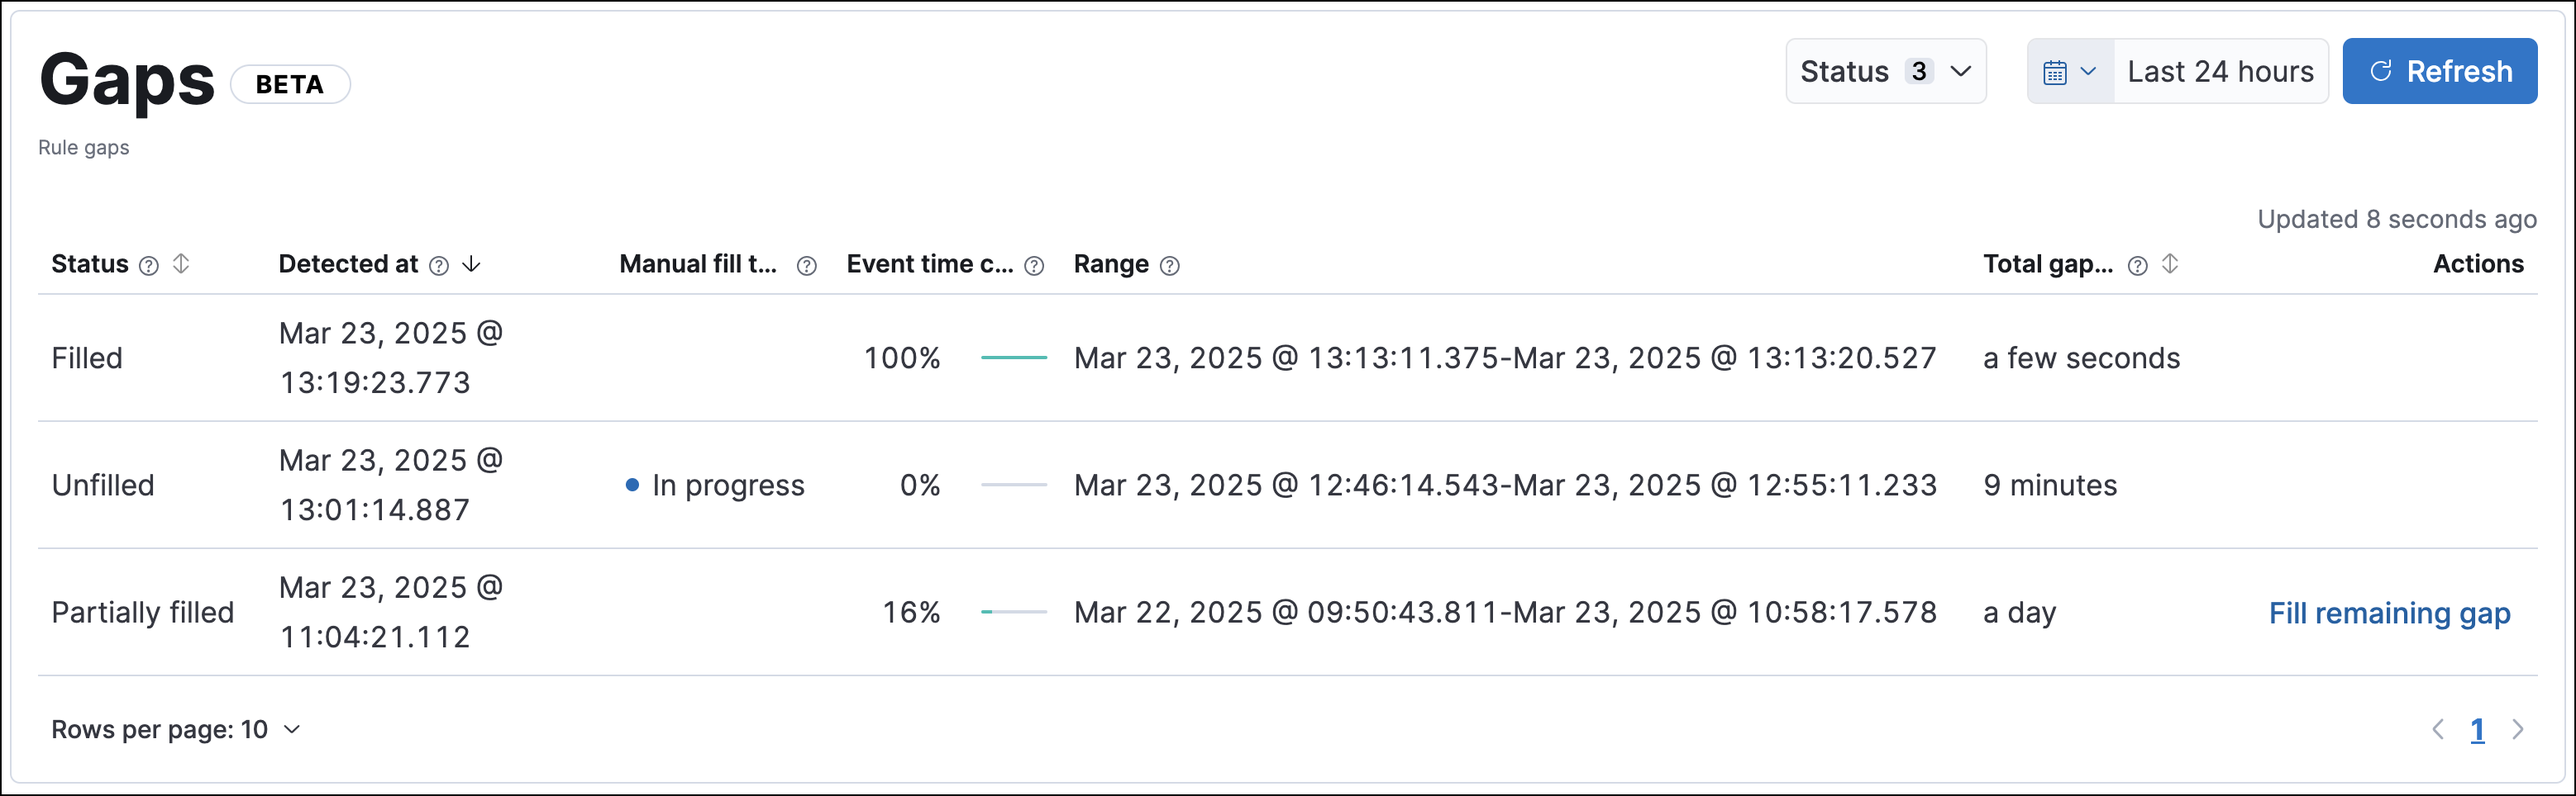
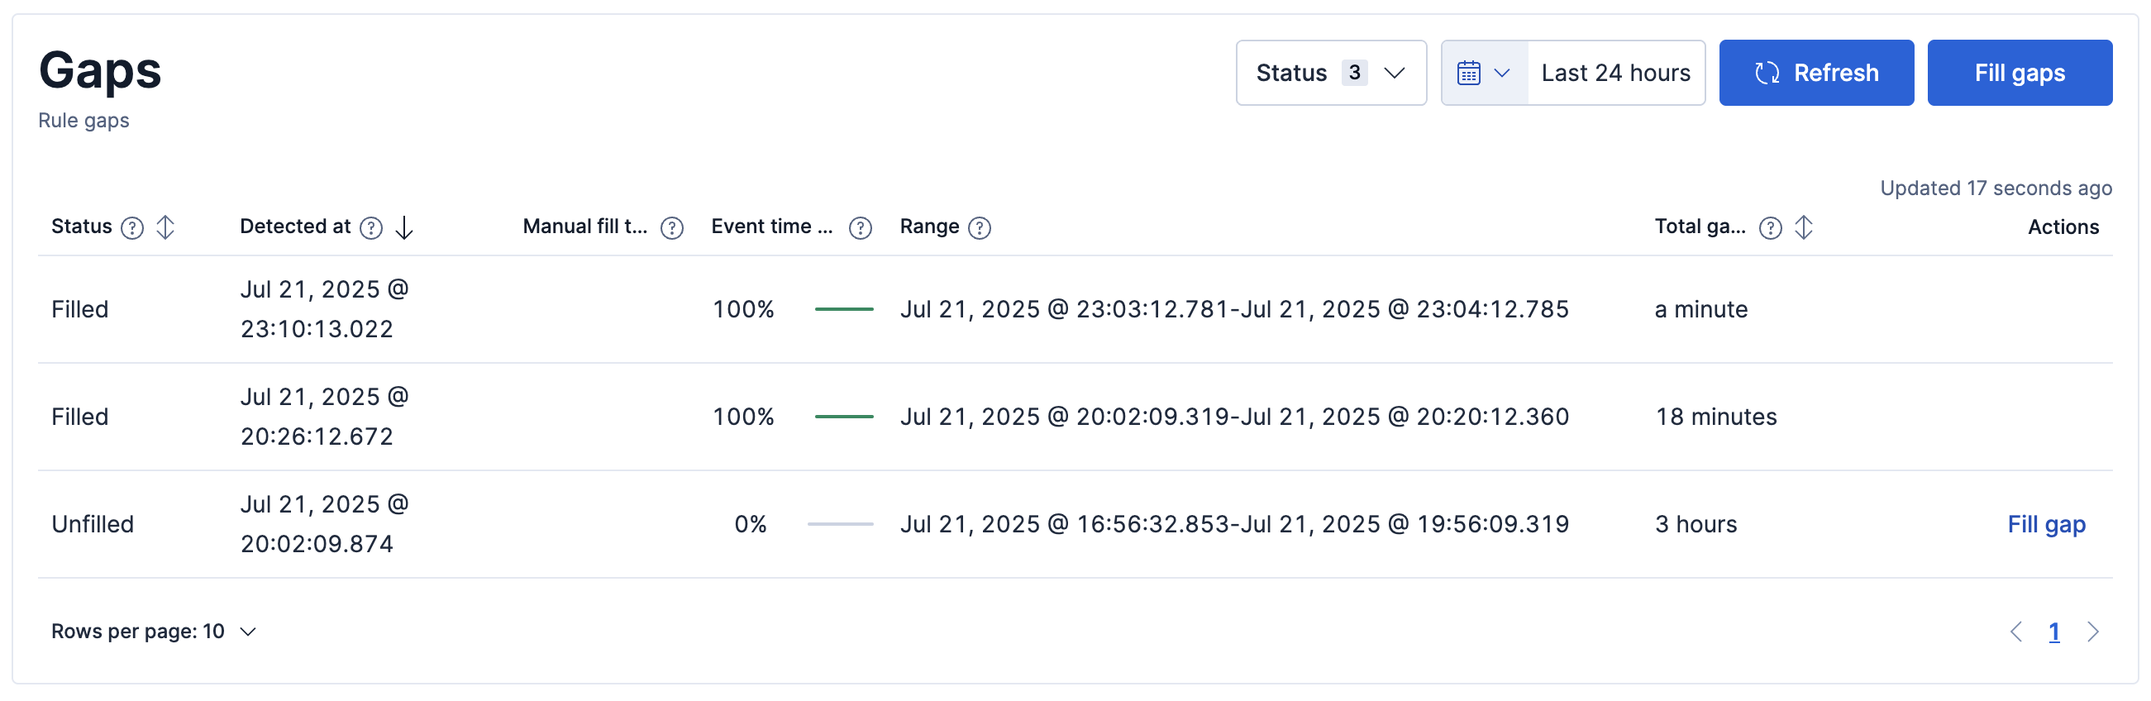
[Security][9.1 & Serverless] Improvements to the gap remediation feature (#2173)
Contributes to the following doc issues for 9.1 and Serverless:

- https://github.com/elastic/docs-content/issues/2111
- https://github.com/elastic/docs-content/issues/1887
- https://github.com/elastic/docs-content/issues/1435

**Corresponding 8.19 docs**:
https://github.com/elastic/security-docs/pull/6935

Previews:
- [Manage detection rules | Fill gaps for multiple
rules](https://docs-v3-preview.elastic.dev/elastic/docs-content/pull/2173/solutions/security/detect-and-alert/manage-detection-rules#bulk-fill-gaps-multiple-rules)
- New section
- [Rule Monitoring
tab](https://docs-v3-preview.elastic.dev/elastic/docs-content/pull/2173/solutions/security/detect-and-alert/monitor-rule-executions#rule-monitoring-tab)
- Reformatted docs about the panel above the Rules table to show how the
UI differs between 9.0 and 9.1.
- [Gaps
table](https://docs-v3-preview.elastic.dev/elastic/docs-content/pull/2173/solutions/security/detect-and-alert/monitor-rule-executions#gaps-table)
- Added tags to show that the Gaps table is beta in 9.0 and GA in 9.1.
Also included a note that lets users know how to bulk-fill gaps for
multiple rules.

diff --git a/solutions/security/detect-and-alert/monitor-rule-executions.md b/solutions/security/detect-and-alert/monitor-rule-executions.md
@@ -40,9 +40,18 @@ To sort the rules list, click any column header. To sort in descending order, cl
 
 For detailed information on a rule, the alerts it generated, and associated errors, click on its name in the table. This also allows you to perform the same actions that are available on the [**Installed Rules** tab](manage-detection-rules.md), such as modifying or deleting rules, activating or deactivating rules, exporting or importing rules, and duplicating prebuilt rules.
 
-For information about rule execution gaps (which are periods of time when a rule didn't run), use the panel above the table. The time filter on the left allows you to select a time range for viewing gap data. The **Total rules with gaps:** field tells you how many rules have unfilled or partially filled gaps within the selected time range. The **Only rules with gaps** filter on the right lets you only display rules with unfilled or partially filled gaps.
+For information about rule execution gaps (which are periods of time when a rule didn't run), use the panel above the table. The panel contains the following:
 
-Within the table, the **Last Gap (if any)** column conveys how long the most recent gap for a rule lasted. The **Unfilled gaps duration** column shows whether a rule still has gaps and provides a total sum of the remaining unfilled or partially filled gaps. The total sum can change based on the time range that you select in the panel above the table. If a rule has no gaps, the columns display a dash (`––`).
+* **Time filter**: Allows you to select a time range for viewing gap data. 
+* **Total rules with gaps:** Provides metrics for rules with gaps:
+  
+  * {applies_to}`stack: ga 9.0` Tells you how many rules have unfilled or partially filled gaps within the selected time range. 
+  * {applies_to}`stack: ga 9.1` Tells you the number of rules with unfilled gaps (left metric) and the number of rules with gaps being filled (right metric). 
+  
+* {applies_to}`stack: ga 9.0` **Only rules with gaps**: Filters the Rules table to only display rules with unfilled or partially filled gaps.
+* {applies_to}`stack: ga 9.1` **Only rules with unfilled gaps**: Filters the Rules table to only display rules with unfilled gaps. Note that the filter excludes rules with gaps that are being filled. 
+
+Within the Rules table, the **Last Gap (if any)** column conveys how long the most recent gap for a rule lasted. The **Unfilled gaps duration** column shows whether a rule still has gaps and provides a total sum of the remaining unfilled or partially filled gaps. The total sum can change based on the time range that you select in the panel above the table. If a rule has no gaps, the columns display a dash (`––`). 
 
 ::::{tip}
 For a detailed view of a rule's gaps, go to the **Execution results** tab and check the [Gaps table](/solutions/security/detect-and-alert/monitor-rule-executions.md#gaps-table).
@@ -84,9 +93,9 @@ Use these controls to filter what’s included in the logs table:
 
 ### Gaps table [gaps-table]
 
-::::{warning}
-This functionality is in beta and is subject to change. The design and code is less mature than official GA features and is being provided as-is with no warranties. Beta features are not subject to the support SLA of official GA features.
-::::
+```{applies_to}
+   stack: preview 9.0, ga 9.1
+```
 
 Gaps in rule executions are periods of time where a rule didn’t run. They can be caused by various disruptions, including system updates, rule failures, or simply turning off a rule. Addressing gaps is essential for maintaining consistent coverage and avoiding missed alerts.
 
@@ -94,7 +103,11 @@ Gaps in rule executions are periods of time where a rule didn’t run. They can 
 Refer to the [Troubleshoot gaps](../../../troubleshoot/security/detection-rules.md#troubleshoot-gaps) section for strategies for avoiding gaps.
 ::::
 
-Use the information in the Gaps table to assess the scope and severity of rule execution gaps. To control what's shown in the table, you can filter the table by gap status, select a time range for viewing gap data, and sort multiple columns.
+Use the information in the Gaps table to assess the scope and severity of rule execution gaps. To control what's shown in the table, you can filter the table by gap status, select a time range for viewing gap data, and sort multiple columns. In {{stack}} 9.1 and Serverless, fill all gaps for the current rule by clicking **Fill all gaps** in the Gaps table. 
+
+::::{note}
+{applies_to}`stack: ga 9.1` From the Rules table, fill gaps for multiple rules with the [**Fill gaps** bulk action](/solutions/security/detect-and-alert/manage-detection-rules.md#bulk-fill-gaps-multiple-rules).
+::::
 
 :::{image} /solutions/images/security-gaps-table.png
 :alt: Gaps table on the rule execution results tab

diff --git a/solutions/security/detect-and-alert/manage-detection-rules.md b/solutions/security/detect-and-alert/manage-detection-rules.md
@@ -188,7 +188,28 @@ Be mindful of the following:
 
 ::::
 
+## Fill gaps for multiple rules [bulk-fill-gaps-multiple-rules]
 
+```{applies_to}
+   stack: ga 9.1
+```
+
+From the Rules table, fill gaps for multiple rules by using the **Fill gaps** bulk action.
+
+1. Find **Detection rules (SIEM)** in the navigation menu or by using the [global search field](/explore-analyze/find-and-organize/find-apps-and-objects.md).
+2. In the Rules table, click the **Rule Monitoring** tab, then do one of the following:
+
+   * Fill rules with unfilled or partially filled gaps: Select the appropriate rules or all rules on the page, then click **Bulk actions → Fill gaps**.
+   
+   * Only fill rules with unfilled gaps: In the panel above the table, click the **Only rules with unfilled gaps** filter to only show rules with unfilled gaps (rules with gaps that are being filled are excluded). Select the appropriate rules or all of them, then click **Bulk actions → Fill gaps**. 
+
+3. Specify when to start and end the manual run that will fill the gaps. 
+4. Click **Schedule gap fills**. The rule will manually run over unfilled gaps in the selected time range. 
+
+After scheduling the manual run, you can track gap fill progress by checking the **Total rules with gaps:** field in the panel above the Rules table. The field displays two metrics separated by a forward slash. The metric on the left tells you the remaining number of rules with unfilled gaps. The metric on the right tells you the number of rules that are currently having their gaps filled. 
+
+Alternatively, you can check gap fill progress for individual rules by going to their details page, clicking the **Execution results** tab, then going to the [Gaps table](/solutions/security/detect-and-alert/monitor-rule-executions.md#gaps-table).
+ 
 
 ## Snooze rule actions [snooze-rule-actions]
 
